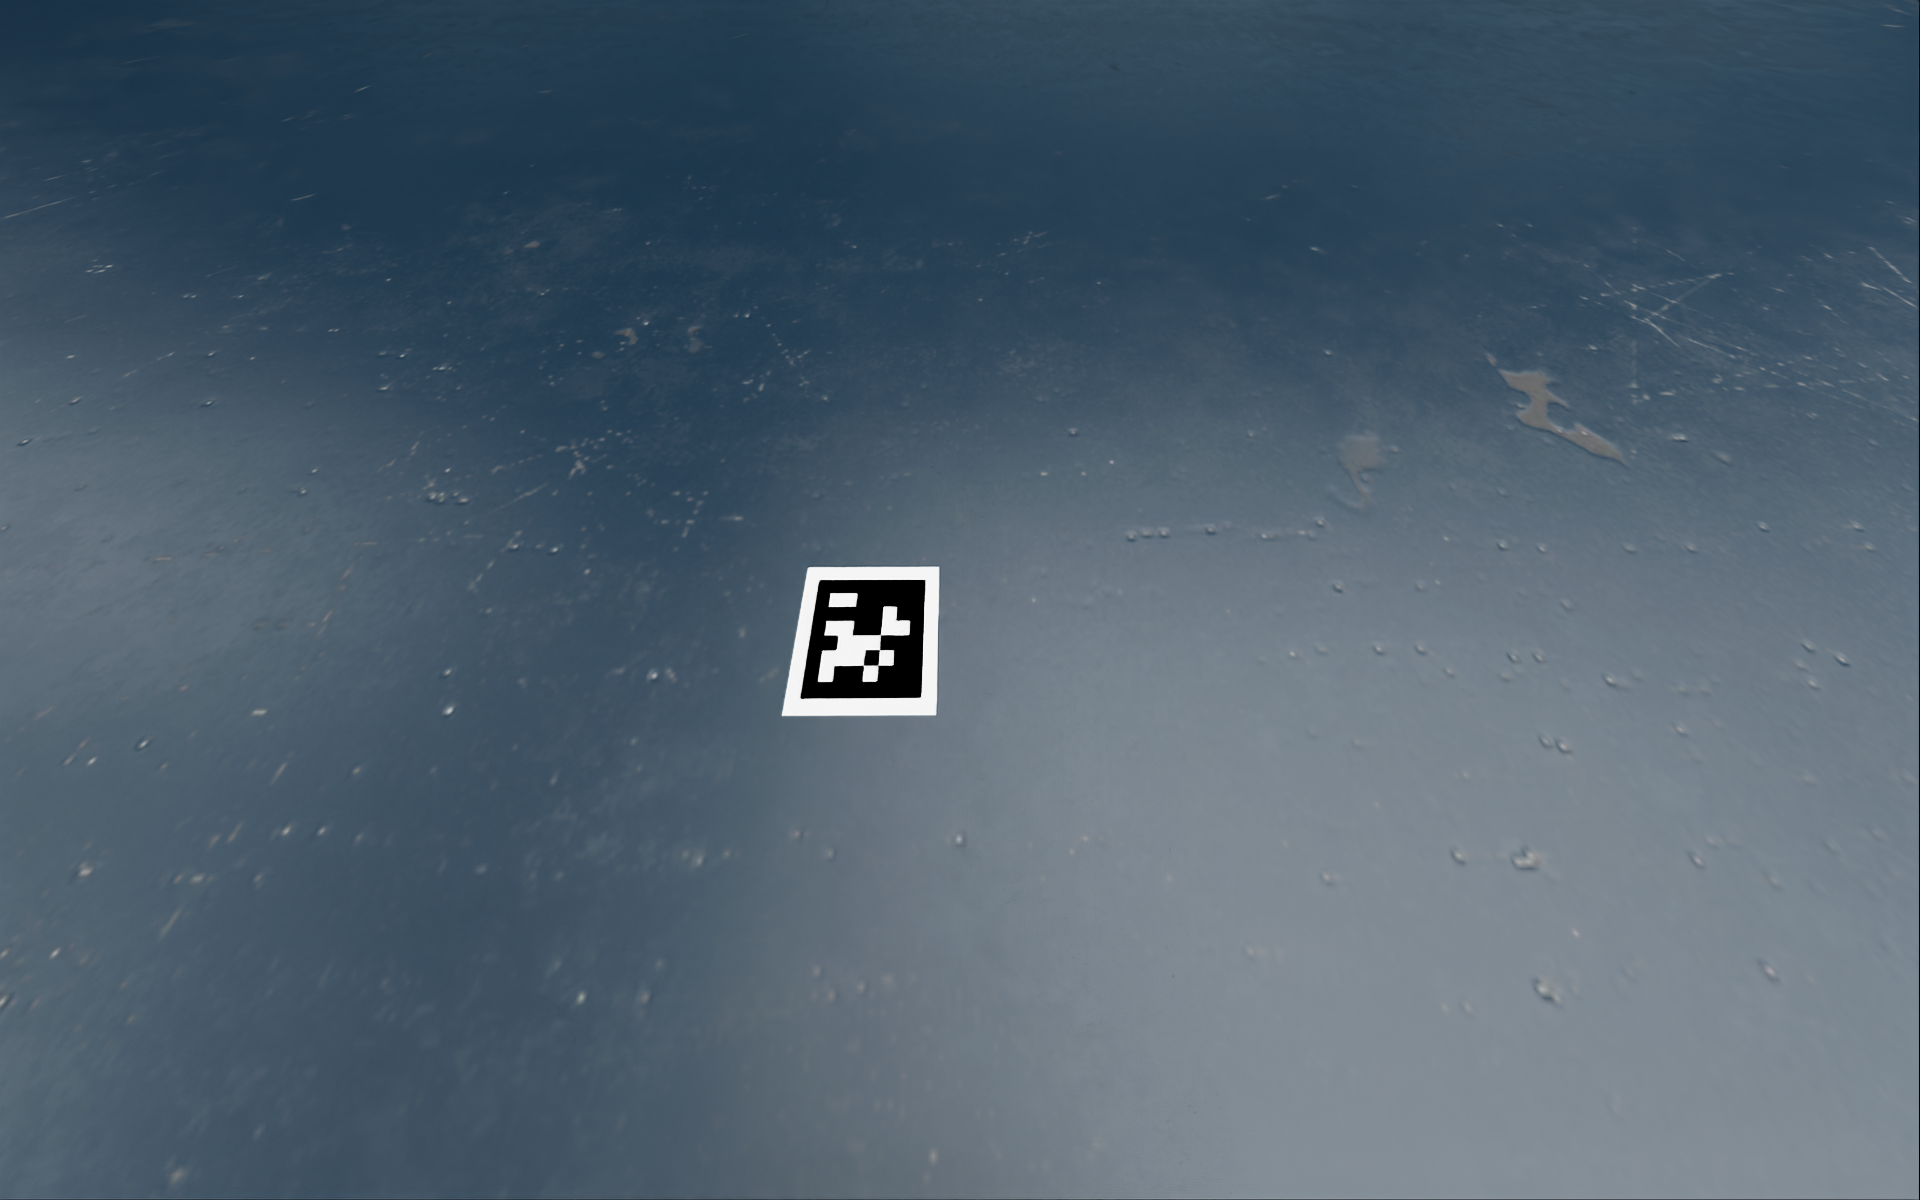
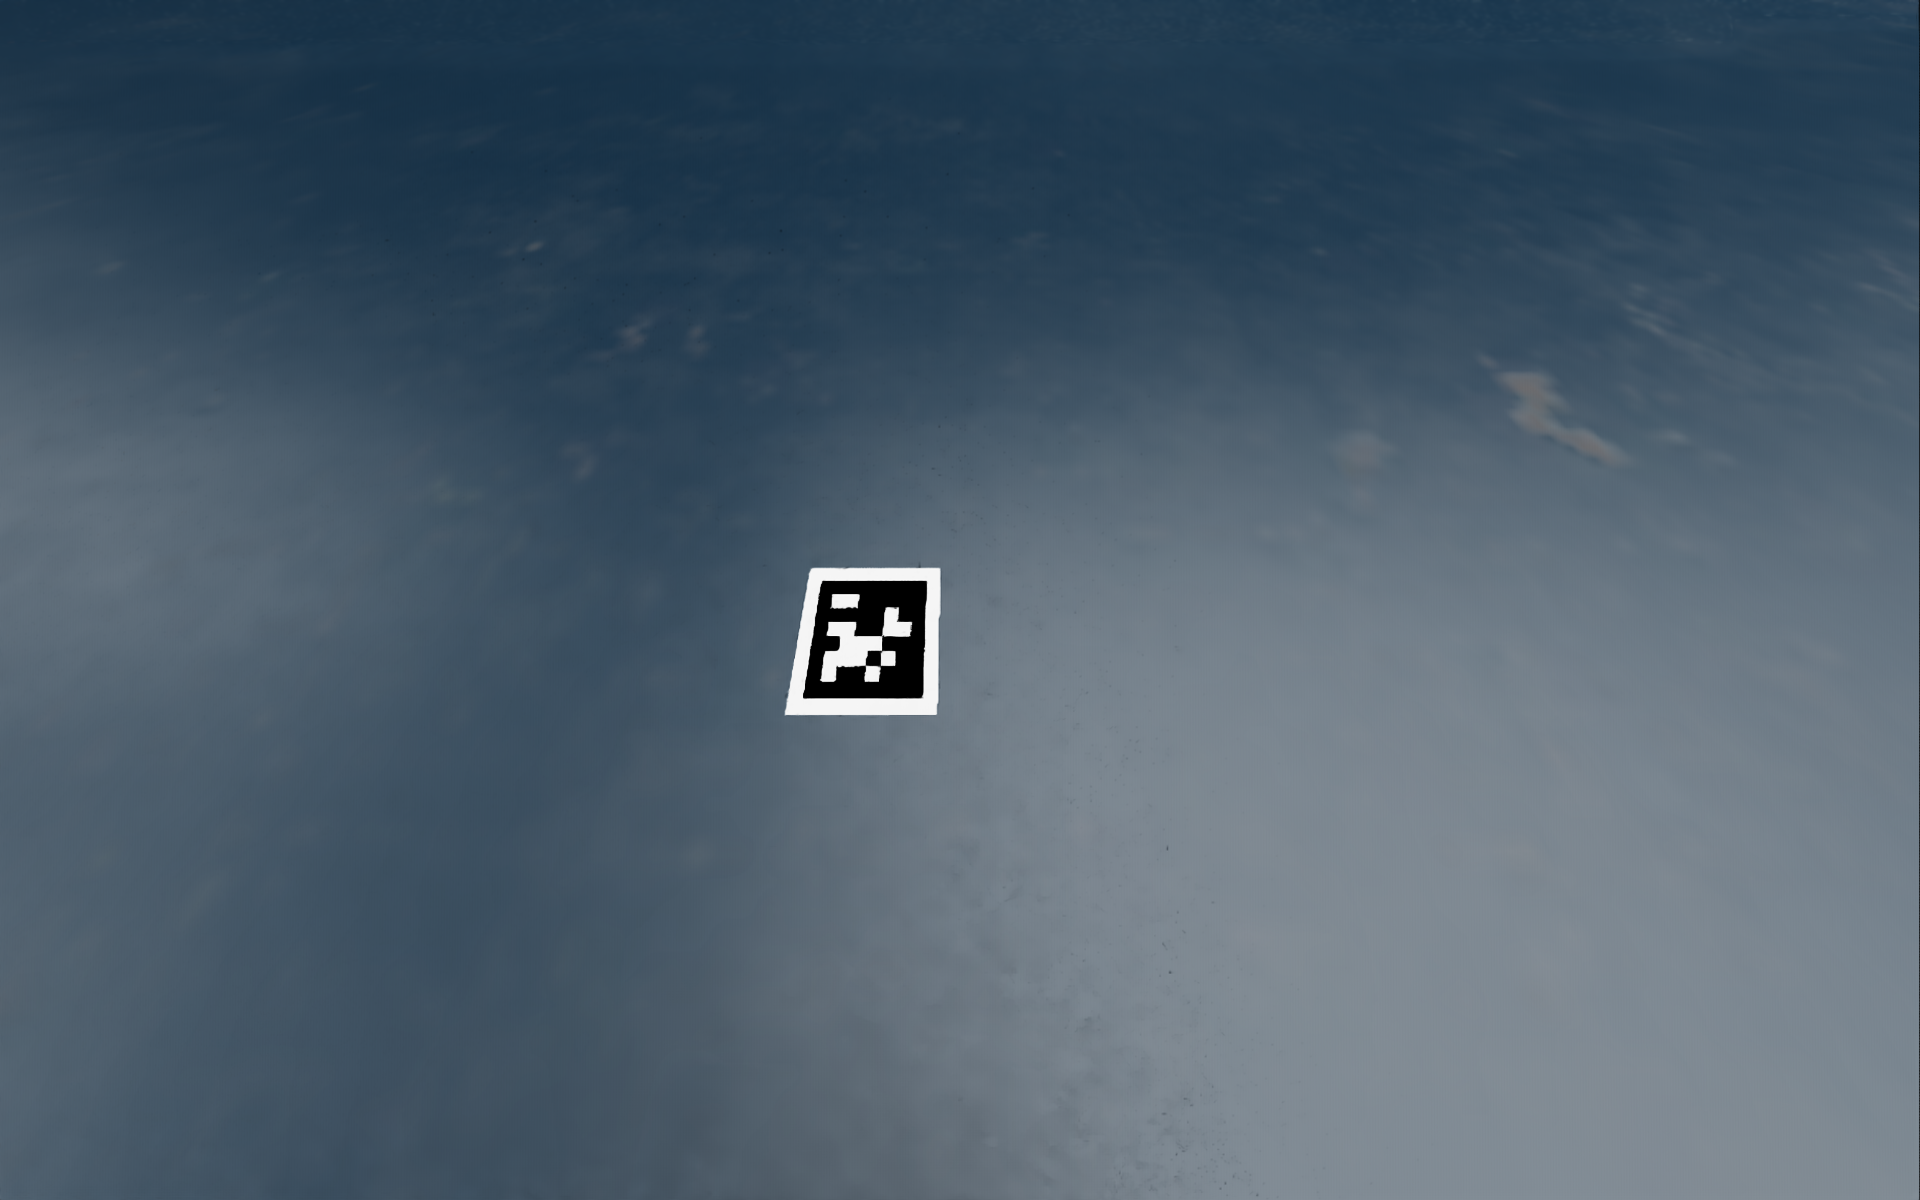
Modifiche lievi

diff --git a/src/test_3/test_3.py b/src/test_3/test_3.py
@@ -1,20 +1,18 @@
-# Importante che sia per primo perché se il simulatore non è avviato non posso eseguire gli altri import
+# Importante che sim_start sia per primo perché se il simulatore non è avviato non posso eseguire gli altri import
 from sim_start import sim, CONFIG
 from omni.isaac.kit import SimulationApp
-from pxr import Gf, Usd
+from pxr import Usd, UsdGeom, Gf
 import numpy as np
 import paho.mqtt.client as mqtt
 import cv2
+
 import pyapriltags
-from omni.usd import get_context, get_world_transform_matrix
-import omni.isaac.core.utils.numpy.rotations as rot_utils
-import omni
+from omni.usd import get_context, get_world_transform_matrix, get_local_transform_matrix
 from omni.isaac.wheeled_robots.controllers.differential_controller import DifferentialController
 from omni.isaac.sensor import Camera
 from omni.isaac.core.utils.stage import is_stage_loading
 from omni.isaac.wheeled_robots.robots import WheeledRobot
 from omni.isaac.core import World
-from PIL import Image
 
 
 SCENE_PATH = "src/scene_warehouse.usd"
@@ -24,6 +22,7 @@ IMAGE_PATH = "src/test_3/test.png"
 IMAGE_RESOLUTION = (1920, 1200)
 
 
+
 class Instrinsics:
     def __init__(self, camera: Camera):
 
@@ -31,7 +30,6 @@ class Instrinsics:
         ((self.fx, _, self.cx), (_, self.fy, self.cy),
          (_, _, _)) = camera.get_intrinsics_matrix()
 
-        print(self.fx, self.cx, self.fy, self.cy)
 
     def to_list(self):
         return [self.fx, self.fy, self.cx, self.cy]
@@ -138,8 +136,12 @@ class AprilTagsManager:
             gray, estimate_tag_pose=True, camera_params=my_jetbot.intrinsics.to_list(), tag_size=0.05)
 
         stage: Usd.Stage = get_context().get_stage()
-        prim = stage.GetPrimAtPath(CAMERA_PRIM_PATH)
+        prim: Usd.Prim = stage.GetPrimAtPath(CAMERA_PRIM_PATH)
         matrix = get_world_transform_matrix(prim)
+        local_matrix = get_local_transform_matrix(prim)
+        print("\nCamera position: " + str(matrix) + "\n\n")
+        print("\nLocal camera transform: " + str(local_matrix) + "\n\n")
+        exit()
         translate = matrix.ExtractTranslation()
 
         tag_center_pos = (0.21546, 0.0, 0.0001)

diff --git a/appunti/appunti_isaac.md b/appunti/appunti_isaac.md
@@ -595,3 +595,47 @@ ovvero 1 cm dato che il calcolo è fatto sull'angolo in alto a sinistra. In alcu
 
 Il modo più semplice per avere le librerie di Isaac importate in VSCode e quindi autocomplete quando si lavora con esse è quello di aprire con VSCode direttamente la cartella del package, ovvero
 ```.local/share/ov/pkg/isaac_sim-2023.1.1/```. Di conseguenza, sposto la cartella del progetto in tale cartella.
+
+# Posizioni dei prim nella scena
+
+La posizione e l'orientamento dei prim viene mostrata attraverso la Transform Matrix, che può essere locale e globale. Ecco come si interpeta la transform matrix:
+
+>### Interpretazione delle Componenti della Matrice
+>
+>* **Prime tre colonne**:
+>  * Ogni colonna delle prime tre righe rappresenta un vettore asse. Gli assi X, Y, Z del sistema di coordinate della camera sono trasformati in base alla rotazione (e alla scalatura, se applicata).
+>  * Le prime tre colonne definiscono quindi come gli assi della camera sono orientati rispetto al sistema di coordinate globale (o al sistema di coordinate del genitore, nel caso di trasformazioni locali).
+>
+>* **Quarta colonna**:
+>  * La quarta colonna rappresenta la traslazione della camera nel sistema di coordinate. Indica dove si trova l'origine della camera in questo sistema. Questi valori sono spesso in metri, ma l'unità di misura dipende dal contesto specifico dell'applicazione.
+>
+>* **Ultima riga**:
+>  * L'ultima riga `(0, 0, 0, 1)` è standard nelle matrici di trasformazione affine in 3D e serve a mantenere la consistenza matematica per le operazioni di trasformazione.
+>
+>Nelle matrici di trasformazione 4x4 che hai fornito, le coordinate \(x, y, z\) che indicano la posizione della camera nel rispettivo sistema di coordinate sono date dall'elemento nella quarta colonna delle prime tre righe. Questo elemento rappresenta il vettore di traslazione della camera. Ecco come queste coordinate appaiono nelle due matrici che hai specificato:
+>
+>1. **Camera Position Matrix**:
+>
+>   $$
+>   \begin{bmatrix}
+>   -0.00403228 & -0.99999239 & 0.00140023 & 0 \\
+>   0.81086778 & -0.00245040 & 0.58522767 & 0 \\
+>   -0.58521979 & 0.00349492 & 0.81086906 & 0 \\
+>   0.16708956 & -0.03213537 & 0.18715836 & 1 \\
+>   \end{bmatrix}
+>   $$
+>
+>   Posizione: $x = 0.16708956, y = -0.03213537, z = 0.18715836$
+>
+>2. **Local Camera Transform**:
+>
+>   $$
+>   \begin{bmatrix}
+>   -0.00416411 & -0.99999133 & 9.74542202 \times 10^{-9} & 0 \\
+>   0.56640132 & -0.00235857 & 0.82412619 & 0 \\
+>   -0.82411905 & 0.00343176 & 0.56640623 & 0 \\
+>   0.07833982 & -0.00594328 & 0.11956879 & 1 \\
+>   \end{bmatrix}
+>   $$
+>
+>   Posizione: $x = 0.07833982, y = -0.00594328, z = 0.11956879$
